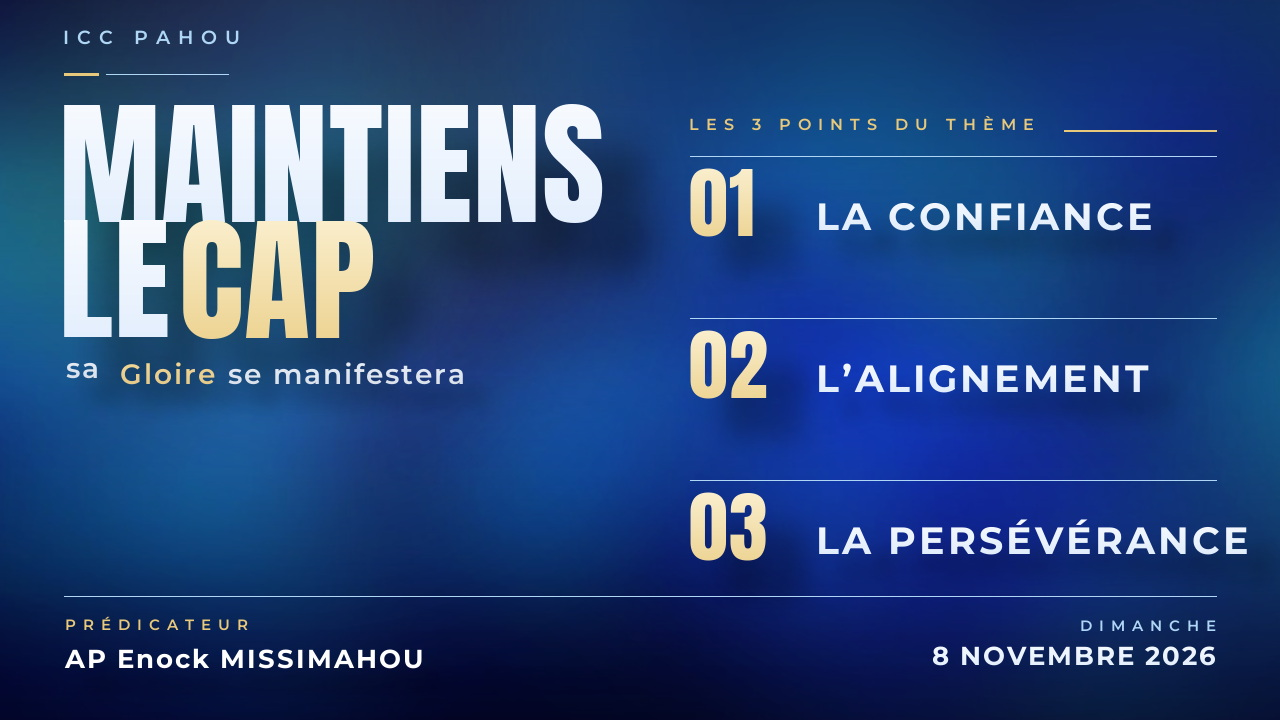
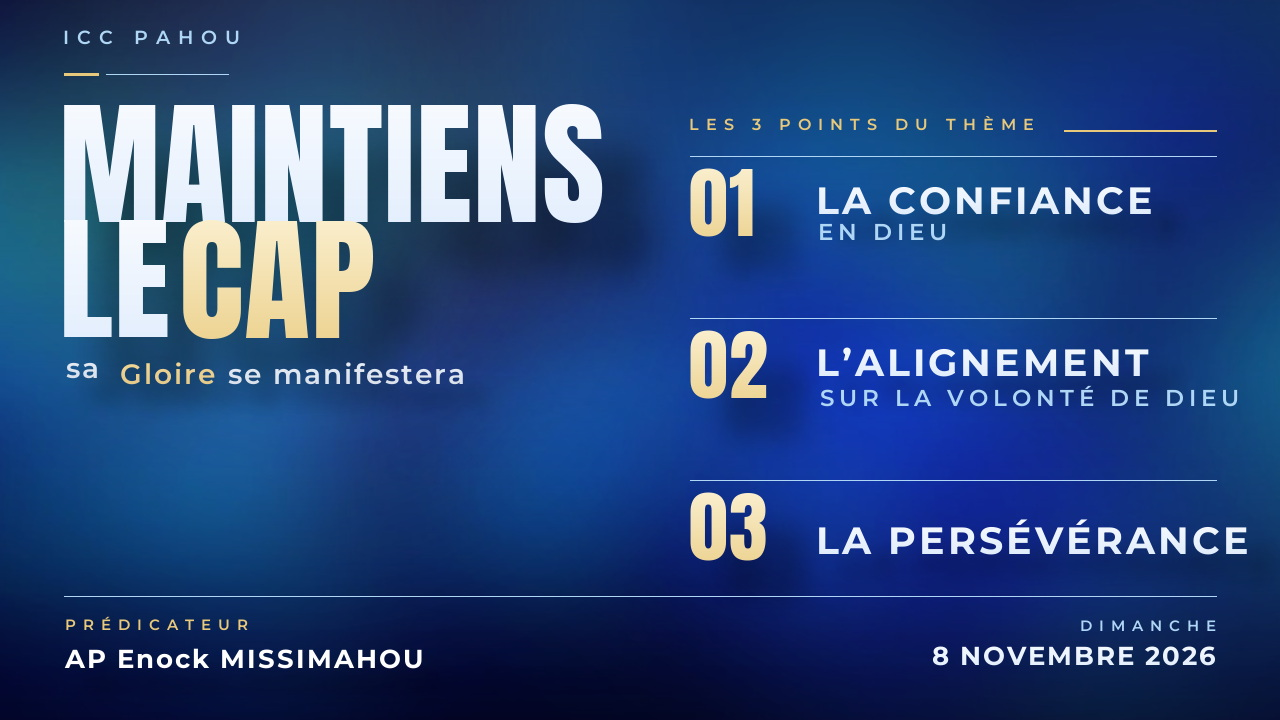
feat(livrable): recap 3 points — « la confiance en DIEU » et « l'alignement sur la volonte de DIEU », 3e point intact
- libelles 1 et 2 completes a la lettre, 3e point et reste du visuel inchanges
- complements poses sur une ligne dediee (Montserrat SemiBold acier)
- .gitignore : __pycache__ retire du versionnement

Changed region(s): [[0.625, 0.4889, 0.9688, 0.5806], [0.625, 0.2444, 0.9062, 0.3361]]

diff --git a/scripts/render_cap_f07_points.py b/scripts/render_cap_f07_points.py
@@ -92,9 +92,14 @@ def main(out, fond=T.FOND):
     T.paste_left(base, cap, RX0, 116)
     d.line([(RX0 + cap.getbbox()[2] + 22, 130), (RX1, 130)], fill=OR + (110,), width=2)
 
-    rows = [(168, "01", "LA CONFIANCE"), (330, "02", "L’ALIGNEMENT"),
-            (492, "03", "LA PERSÉVÉRANCE")]
-    for i, (y, num, label) in enumerate(rows):
+    # un point = un libellé principal + son complément éventuel. Les mots sont ceux du thème,
+    # à la lettre : « la confiance en DIEU », « l'alignement sur la volonté de DIEU »,
+    # « la persévérance ». Le complément passe à la ligne (même colonne) parce que les deux
+    # nouveaux libellés ne tiennent plus sur une seule ligne lisible à cette largeur.
+    rows = [(168, "01", "LA CONFIANCE", "EN DIEU"),
+            (330, "02", "L’ALIGNEMENT", "SUR LA VOLONTÉ DE DIEU"),
+            (492, "03", "LA PERSÉVÉRANCE", None)]
+    for i, (y, num, label, suite) in enumerate(rows):
         # filet de rangée
         d.line([(RX0, y - 12), (RX1, y - 12)], fill=ACIER + (55,), width=1)
         # chiffre
@@ -105,17 +110,34 @@ def main(out, fond=T.FOND):
         T.paste_left(base, nb, RX0, y)
         nh = nb.getbbox()[3] - nb.getbbox()[1]
 
-        # libellé, calé sur la ligne de base du chiffre
-        fl, size = T.fit_width(T.SANS, label, RX1 - (RX0 + 130), start=38, lo=18)
+        # libellé principal, calé sur la ligne de base du chiffre
+        dispo = RX1 - (RX0 + 130)
+        fl, size = T.fit_width(T.SANS, label, dispo, start=38, lo=18)
         try:
             fl.set_variation_by_name("Bold")
         except Exception:
             pass
         ml = T.text_mask(label, fl, 3)
         lab = T.fill_gradient(ml, (255, 255, 255), (212, 229, 250))
-        ylab = y + nh - (ml.getbbox()[3] - ml.getbbox()[1]) - 6
+        hlab = ml.getbbox()[3] - ml.getbbox()[1]
+        ylab = y + nh - hlab - 6
+        if suite:
+            ylab -= 16                      # le bloc remonte pour loger le complément
         T.paste_left(base, T.drop(lab, 10, 100, (3, 5)), RX0 + 132, ylab + 3)
         T.paste_left(base, lab, RX0 + 129, ylab)
+
+        # complément (« en DIEU », « sur la volonté de DIEU ») : plus petit, en acier, sous
+        # le libellé — même origine de lecture, rien d'ajouté, rien de retiré.
+        if suite:
+            fs2, s2 = T.fit_width(T.SANS, suite, dispo, start=23, lo=14)
+            try:
+                fs2.set_variation_by_name("SemiBold")
+            except Exception:
+                pass
+            m2 = T.text_mask(suite, fs2, 5)
+            c2 = Image.new("RGBA", m2.size, ACIER + (232,))
+            c2.putalpha(m2)
+            T.paste_left(base, c2, RX0 + 130, ylab + hlab + 8)
 
     # ---------- pied
     d.line([(64, 596), (1216, 596)], fill=ACIER + (50,), width=1)

diff --git a/livrables/2026-11-07-recap-maintiens-le-cap-3-points-1280x720.md b/livrables/2026-11-07-recap-maintiens-le-cap-3-points-1280x720.md
@@ -4,6 +4,9 @@
 - **Format** : 1280 × 720 · livré le 2026-11-07 · **récapitulatif** (post-série / slide de rappel)
 - **Demande** : « Fais-en un autre pour récapituler les points de ce thème, les éléments ne
   changent pas — 1er point : la Confiance · 2e point : l'Alignement · 3e point : la Persévérance »
+- **Reprise du 2026-11-07** : « le 1er point : la confiance en DIEU · le 2e point : l'alignement sur
+  la volonté de DIEU · le 3e point reste intact » → libellés 1 et 2 complétés à la lettre, le 3e
+  point et tout le reste du visuel sont inchangés.
 - Script : `scripts/render_cap_f07_points.py`
 
 ## Ce qui a été utilisé
@@ -14,21 +17,27 @@
 | Palette | 60 % bleus de f07 · 30 % acier `#B0D6F6` · 10 % or pâle `#E8C87A` — **identique à la v2** |
 | Typographie | **Anton** (titre, chiffres 01-02-03) + **Montserrat** Bold / SemiBold — **duo du thème** |
 | Textes du thème | « MAINTIENS LE CAP », « sa **Gloire** se manifestera », « ICC Pahou », « 8 Novembre 2026 » — **inchangés** |
-| Ajout | les trois points, numérotés et alignés en colonne : **01 la Confiance · 02 l'Alignement · 03 la Persévérance** |
+| Ajout | les trois points, numérotés et alignés en colonne : **01 la Confiance en DIEU · 02 l'Alignement sur la volonté de DIEU · 03 la Persévérance** |
 
 ## Structure
 
 - Colonne de gauche : marque, titre sur deux lignes (`CAP` en or), sous-titre du thème.
 - Colonne de droite : intitulé « LES 3 POINTS DU THÈME » puis les trois points, chacun sur une
-  rangée séparée par un filet acier — numéro en Anton or, libellé en Montserrat Bold.
+  rangée séparée par un filet acier — numéro en Anton or, libellé en Montserrat Bold, et, pour les
+  points 1 et 2, le complément (« EN DIEU », « SUR LA VOLONTÉ DE DIEU ») en Montserrat SemiBold
+  acier juste dessous, dans la même colonne.
 - Pied : prédicateur à gauche, dimanche 8 novembre 2026 à droite.
 - Rien d'autre : pas de photo, pas d'icône illustrée, pas d'élément d'interface.
 
 ## Écarts assumés
 
-- **Cassee des points respectée** : « La Confiance », « l'Alignement », « La Persévérance » sont
-  composés en capitales (contrainte de lisibilité de la miniature), avec l'apostrophe
-  typographique de « l'Alignement ». Aucun mot ajouté, aucun mot retiré.
+- **Casse des points respectée** : « la Confiance en DIEU », « l'Alignement sur la volonté de
+  DIEU », « la Persévérance » sont composés en capitales (contrainte de lisibilité de la
+  miniature), avec l'apostrophe typographique de « l'Alignement ». Aucun mot ajouté, aucun mot
+  retiré — « DIEU » reste en capitales comme dans la demande.
+- **Les compléments passent à la ligne** : « LA CONFIANCE EN DIEU » et « L'ALIGNEMENT SUR LA
+  VOLONTÉ DE DIEU » ne tiennent pas sur une seule ligne à une taille lisible dans la colonne ; le
+  complément est donc posé dessous, en plus petit et en acier, sans casser la ligne de base.
 - **Numéro en tête** (« 01 », « 02 », « 03 ») : c'est l'ordre que la demande donne, pas un
   classement inventé.
 
